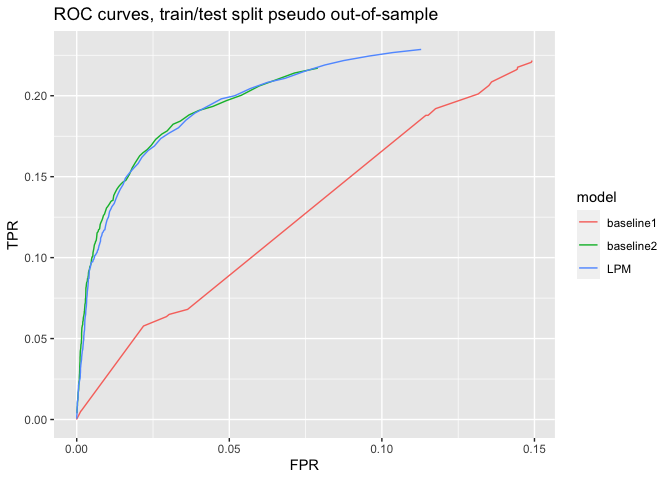
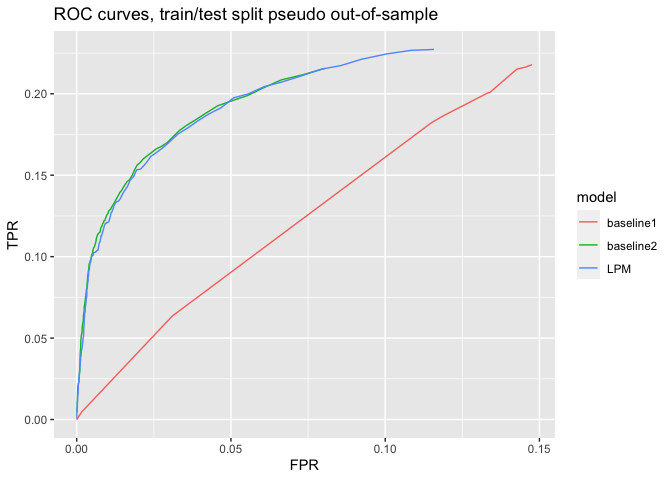
I think its done

diff --git a/exercise 2/exercise_2.md b/exercise 2/exercise_2.md
@@ -19,10 +19,10 @@ them are positively correlated with the house prices.
 
 |              | k   |     rMSE |
 |:-------------|:----|---------:|
-| KNN Model    | 11  | 62605.03 |
-| Linear Model | NA  | 59241.46 |
+| KNN Model    | 15  | 62865.25 |
+| Linear Model | NA  | 59102.58 |
 
-Choose k = 11 as it has the smallest mean RMSE over 5 folds. <br>
+Choose k = 15 as it has the smallest mean RMSE over 5 folds. <br>
 Standard error is smaller for the linear model.
 
 Linear regression output is below:
@@ -34,32 +34,32 @@ Linear regression output is below:
     ## 
     ## Residuals:
     ##     Min      1Q  Median      3Q     Max 
-    ## -216700  -34839   -5991   28404  452490 
+    ## -227180  -36547   -5135   28893  459415 
     ## 
     ## Coefficients:
     ##                          Estimate Std. Error t value Pr(>|t|)    
-    ## (Intercept)             1.780e+05  2.328e+04   7.646 3.88e-14 ***
-    ## lotSize                 8.930e+03  2.296e+03   3.890 0.000105 ***
-    ## age                    -9.726e+01  6.522e+01  -1.491 0.136139    
-    ## landValue               8.699e-01  5.151e-02  16.888  < 2e-16 ***
-    ## livingArea              6.362e+01  5.357e+00  11.876  < 2e-16 ***
-    ## bedrooms               -9.921e+03  2.871e+03  -3.456 0.000565 ***
-    ## fireplaces              1.157e+03  3.385e+03   0.342 0.732564    
-    ## bathrooms               1.188e+04  8.786e+03   1.352 0.176643    
-    ## rooms                   2.121e+03  2.361e+03   0.898 0.369317    
-    ## heatinghot water/steam -8.534e+03  4.716e+03  -1.810 0.070558 .  
-    ## heatingelectric        -4.790e+03  1.345e+04  -0.356 0.721742    
-    ## fuelelectric           -8.388e+03  1.315e+04  -0.638 0.523629    
-    ## fueloil                -3.233e+03  5.366e+03  -0.603 0.546934    
-    ## waterfrontNo           -1.241e+05  1.567e+04  -7.918 4.96e-15 ***
-    ## centralAirNo           -8.460e+03  3.826e+03  -2.211 0.027201 *  
-    ## bathrooms:rooms         1.199e+03  1.096e+03   1.095 0.273773    
+    ## (Intercept)             1.743e+05  2.328e+04   7.487 1.26e-13 ***
+    ## lotSize                 9.527e+03  2.344e+03   4.064 5.10e-05 ***
+    ## age                    -5.958e+01  6.632e+01  -0.898 0.369156    
+    ## landValue               8.498e-01  5.286e-02  16.075  < 2e-16 ***
+    ## livingArea              6.897e+01  5.370e+00  12.844  < 2e-16 ***
+    ## bedrooms               -1.057e+04  2.907e+03  -3.635 0.000288 ***
+    ## fireplaces              3.524e+03  3.367e+03   1.047 0.295387    
+    ## bathrooms               1.370e+04  8.611e+03   1.591 0.111862    
+    ## rooms                   9.622e+02  2.359e+03   0.408 0.683383    
+    ## heatinghot water/steam -1.089e+04  4.796e+03  -2.271 0.023293 *  
+    ## heatingelectric         7.637e+03  1.388e+04   0.550 0.582165    
+    ## fuelelectric           -1.548e+04  1.359e+04  -1.139 0.254972    
+    ## fueloil                -1.806e+03  5.453e+03  -0.331 0.740612    
+    ## waterfrontNo           -1.226e+05  1.585e+04  -7.740 1.93e-14 ***
+    ## centralAirNo           -1.136e+04  3.875e+03  -2.933 0.003415 ** 
+    ## bathrooms:rooms         1.136e+03  1.079e+03   1.052 0.292848    
     ## ---
     ## Signif. codes:  0 '***' 0.001 '**' 0.01 '*' 0.05 '.' 0.1 ' ' 1
     ## 
-    ## Residual standard error: 58780 on 1366 degrees of freedom
-    ## Multiple R-squared:  0.6476, Adjusted R-squared:  0.6437 
-    ## F-statistic: 167.3 on 15 and 1366 DF,  p-value: < 2.2e-16
+    ## Residual standard error: 59360 on 1366 degrees of freedom
+    ## Multiple R-squared:  0.634,  Adjusted R-squared:   0.63 
+    ## F-statistic: 157.8 on 15 and 1366 DF,  p-value: < 2.2e-16
 
 ## 3) Classification and retrospective sampling
 
@@ -103,14 +103,14 @@ that of baseline 1. The two look similar to each other.
 | model     |       TPR |       FPR | thresh |
 |:----------|----------:|----------:|-------:|
 | baseline1 | 0.0000000 | 0.0000000 |    0.7 |
-| baseline2 | 0.0459422 | 0.0013780 |    0.7 |
-| LPM       | 0.0228336 | 0.0008220 |    0.7 |
+| baseline2 | 0.0514443 | 0.0014747 |    0.7 |
+| LPM       | 0.0258597 | 0.0007494 |    0.7 |
 | baseline1 | 0.0000000 | 0.0000000 |    0.5 |
-| baseline2 | 0.0814305 | 0.0030219 |    0.5 |
-| LPM       | 0.0775791 | 0.0034329 |    0.5 |
-| baseline1 | 0.0002751 | 0.0000000 |    0.2 |
-| baseline2 | 0.1345254 | 0.0111447 |    0.2 |
-| LPM       | 0.1298487 | 0.0111447 |    0.2 |
+| baseline2 | 0.0836314 | 0.0033845 |    0.5 |
+| LPM       | 0.0872077 | 0.0036988 |    0.5 |
+| baseline1 | 0.0000000 | 0.0000242 |    0.2 |
+| baseline2 | 0.1345254 | 0.0125952 |    0.2 |
+| LPM       | 0.1334250 | 0.0127886 |    0.2 |
 
 This table has the TPR and FPR of the models when the threshold is set
 at 0.7, 0.5, and 0.2. Across various threshold values, baseline 1
@@ -125,27 +125,27 @@ higher TPRs. We choose baseline2 for further analysis.
 
 |        | Predicted | Actual | Difference |
 |:-------|:----------|:-------|:-----------|
-| Fold01 | 21        | 25     | 4          |
-| Fold02 | 23        | 19     | -4         |
-| Fold03 | 17        | 17     | 0          |
-| Fold04 | 18        | 14     | -4         |
-| Fold05 | 24        | 21     | -3         |
-| Fold06 | 19        | 20     | 1          |
-| Fold07 | 22        | 19     | -3         |
-| Fold08 | 22        | 18     | -4         |
-| Fold09 | 23        | 24     | 1          |
-| Fold10 | 18        | 14     | -4         |
-| Fold11 | 22        | 16     | -6         |
-| Fold12 | 19        | 23     | 4          |
-| Fold13 | 24        | 26     | 2          |
-| Fold14 | 20        | 24     | 4          |
-| Fold15 | 21        | 24     | 3          |
-| Fold16 | 20        | 20     | 0          |
-| Fold17 | 23        | 25     | 2          |
-| Fold18 | 19        | 17     | -2         |
-| Fold19 | 17        | 18     | 1          |
-| Fold20 | 18        | 18     | 0          |
-| total  | 410       | 402    | 8          |
+| Fold01 | 19        | 20     | 1          |
+| Fold02 | 19        | 22     | 3          |
+| Fold03 | 20        | 10     | -10        |
+| Fold04 | 22        | 28     | 6          |
+| Fold05 | 20        | 18     | -2         |
+| Fold06 | 21        | 17     | -4         |
+| Fold07 | 19        | 19     | 0          |
+| Fold08 | 21        | 22     | 1          |
+| Fold09 | 23        | 22     | -1         |
+| Fold10 | 17        | 16     | -1         |
+| Fold11 | 23        | 21     | -2         |
+| Fold12 | 21        | 18     | -3         |
+| Fold13 | 22        | 23     | 1          |
+| Fold14 | 21        | 19     | -2         |
+| Fold15 | 23        | 26     | 3          |
+| Fold16 | 22        | 23     | 1          |
+| Fold17 | 19        | 22     | 3          |
+| Fold18 | 26        | 24     | -2         |
+| Fold19 | 19        | 11     | -8         |
+| Fold20 | 22        | 21     | -1         |
+| total  | 419       | 402    | 17         |
 
-The model does the prediction pretty well. It only had 8 predictions
+The model does the prediction pretty well. It only had 72 predictions
 wrong in total out of 4999 observations.
